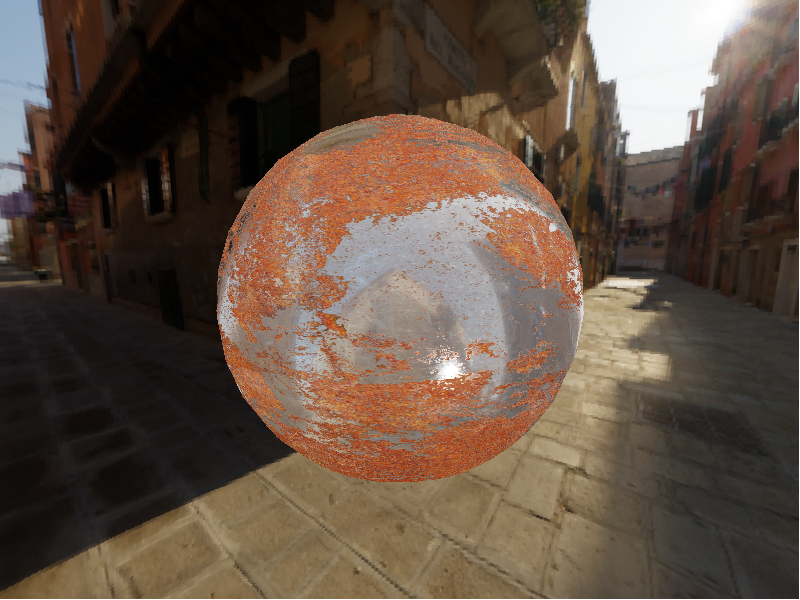
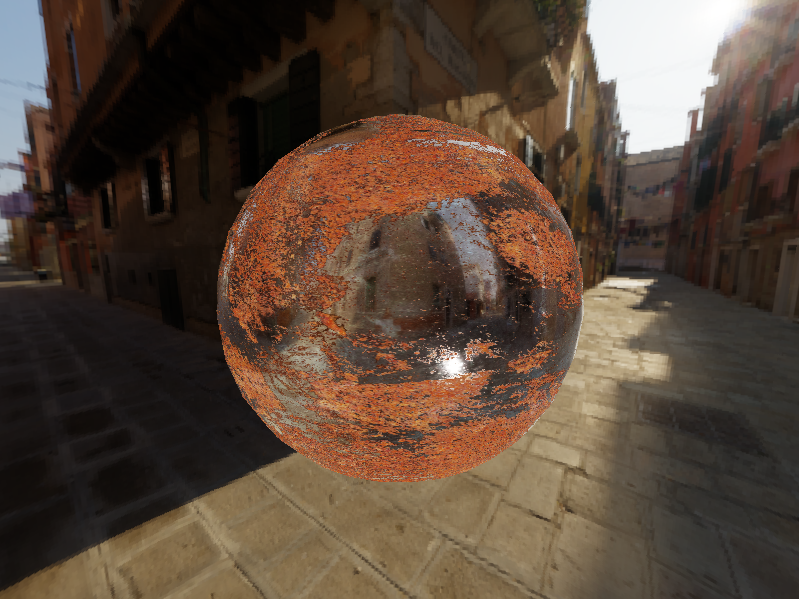
res

Changed region(s): [[0.25, 0.18, 0.75, 0.78], [0.4688, 0.78, 0.5, 0.81]]

diff --git a/main.cpp b/main.cpp
@@ -22,9 +22,9 @@
   \        /
    \      /
     \    /
-	 \  /
-	  \/
-	   p
+     \  /
+      \/
+       p
 */
 struct scan_tri_t
 {
@@ -62,7 +62,7 @@ HDC screenDC;
 
 int width = 0, height = 0;
 float view_angle = 0.0f;
-vector3_t light_angle(cPI, cPI/2.0f, 0);
+vector3_t light_angle(cPI, cPI / 2.0f, 0);
 float eyedist = 1.5f;
 
 struct uniformbuffer_t
@@ -78,8 +78,8 @@ struct uniformbuffer_t
 };
 
 uniformbuffer_t uniformbuffer;
-uint32_t *framebuffer = nullptr;
-float *zbuffer = nullptr;
+uint32_t* framebuffer = nullptr;
+float* zbuffer = nullptr;
 
 texture2d_t albedo_tex;
 texture2d_t metallic_tex;
@@ -195,9 +195,6 @@ void phong_shading(const interp_vertex_t& p, vector4_t& out_color)
 
 }
 
-
-float max_u = -10.0f;
-
 void pbr_shading(const interp_vertex_t& p, vector4_t& out_color)
 {
 	texcoord_t uv = p.uv;
@@ -226,7 +223,6 @@ void pbr_shading(const interp_vertex_t& p, vector4_t& out_color)
 	pbr_param.v.normalize();
 
 	pbr_param.l = -uniformbuffer.light_dir;
-	pbr_param.l.normalize();
 
 	// (v + l) / 2
 	pbr_param.h = pbr_param.v + pbr_param.l;
@@ -258,13 +254,6 @@ void pbr_shading(const interp_vertex_t& p, vector4_t& out_color)
 	float D = D_Trowbridge_Reitz_GGX(a, pbr_param.NoH);
 
 	float V = V_Schlick_GGX(a, pbr_param.NoV, pbr_param.NoL);
-
-
-	float nov = dot(pbr_param.n, pbr_param.v);
-
-	if (nov < 0.5f) {
-		V = FLT_MAX *2;
-	}
 
 	if (!is_valid(V)) {
 		assert(0);
@@ -314,13 +303,13 @@ void pixel_process(int x, int y, const interp_vertex_t& p)
 		pbr_shading(p, color);
 		break;
 	case shading_model_t::eSM_Skybox:
-		{
-			vector3_t n = p.nor / p.pos.w;
-			n.normalize();
-			vector3_t radiance = env_map.sample(n).to_vec3();
-			color = gamma_correction(radiance);
-		}
-		break;
+	{
+		vector3_t n = p.nor / p.pos.w;
+		n.normalize();
+		vector3_t radiance = env_map.sample(n).to_vec3();
+		color = gamma_correction(radiance);
+	}
+	break;
 	default:
 		break;
 	}
@@ -353,31 +342,13 @@ void scan_horizontal(const interp_vertex_t& vl, const interp_vertex_t& vr, int y
 			p.pos.w = 1.0f;
 		}
 
-		{
-			vector3_t n = p.nor / p.pos.w;
-			n.normalize();
-
-			vector3_t wpos = p.wpos / p.pos.w;
-
-			vector3_t v = uniformbuffer.eye - wpos;
-			v.normalize();
-
-			float nov = dot(n, v);
-			if (shading_model == shading_model_t::eSM_PBR) {
-				if (nov < 0)
-				{
-			//		continue;
-				}
-			}
-		}
-
 		if (depth_test(i, y, p.pos.z)) {
 			pixel_process(i, y, p);
 		}
 	}
 }
 
-void scan_triangle(scan_tri_t *sctri)
+void scan_triangle(scan_tri_t* sctri)
 {
 	if (sctri->l.pos.x > sctri->r.pos.x) {
 		std::swap(sctri->l, sctri->r);
@@ -524,7 +495,7 @@ void draw_line(const vector4_t& p0, const vector4_t& p1, uint32_t c)
 	float dy = std::abs(v0.y - v1.y);
 
 	if (dy <= dx)
-	{	
+	{
 		if (v0.x > v1.x) {
 			std::swap(v0, v1);
 		}
@@ -562,7 +533,7 @@ void draw_line(const vector4_t& p0, const vector4_t& p1, uint32_t c)
 		if (ix >= 0 && ix < width) {
 			write_pixel(ix, ymin, c);
 		}
-		
+
 		if (ymax > ymin) {
 			float delta = (v1.x - v0.x) / dy;
 			for (int y = ymin; y < ymax; ++y)
@@ -610,7 +581,7 @@ void draw_cartesian_coordinate(const matrix_t& mvp)
 	draw_line(to, tz, 0xff0000ff);
 }
 
-void render_model(model_t *model)
+void render_model(model_t* model)
 {
 	model_vertex_vec_t& vb = model->m_model_vertex;
 	interp_vertex_vec_t& vb_post = model->m_vertex_post;
@@ -631,13 +602,13 @@ void render_model(model_t *model)
 		vector4_t v01 = vb_post[i1].pos - vb_post[i0].pos;
 		vector4_t v02 = vb_post[i2].pos - vb_post[i0].pos;
 
-		//float det_xy = v01.x * v02.y - v01.y * v02.x;
-		//if (cull_mode == cull_mode_t::eCM_CW && det_xy >= 0.0f) {
-		//	continue; // backface culling
-		//}
-		//else if (cull_mode == cull_mode_t::eCM_CCW && det_xy < 0.0f) {
-		//	continue; // forward face culling
-		//}
+		float det_xy = v01.x * v02.y - v01.y * v02.x;
+		if (cull_mode == cull_mode_t::eCM_CW && det_xy >= 0.0f) {
+			continue; // backface culling
+		}
+		else if (cull_mode == cull_mode_t::eCM_CCW && det_xy < 0.0f) {
+			continue; // forward face culling
+		}
 
 		interp_vertex_t* p0 = &vb_post[i0];
 		interp_vertex_t* p1 = &vb_post[i1];
@@ -662,7 +633,7 @@ void render_model(model_t *model)
 			draw_triangle(*p0, *p1, *p2);
 		}
 	}
-	
+
 }
 
 void render_scene()
@@ -672,12 +643,12 @@ void render_scene()
 		zbuffer[i] = FLT_MAX;
 	}
 
-	view_angle += cPI / 128.0f;
+//	view_angle += cPI / 128.0f;
 
 	matrix_t mrot;
 	mrot.set_rotate(0, 0, 1, view_angle);
 
-	uniformbuffer.eye.set(0.0f, eyedist, 0.5f);
+	uniformbuffer.eye.set(0.2f, eyedist, 0.2f);
 	uniformbuffer.eye = mrot.mul_point(uniformbuffer.eye);
 
 	vector3_t at(0.0f, 0.0f, 0.0f);
@@ -701,7 +672,6 @@ void render_scene()
 	shading_model = old_sm;
 
 	mscale.set_scale(1.6f, 1.6f, 1.6f);
-	mscale.set_scale(1.0f, 1.0f, 1.0f);
 	uniformbuffer.world = mul(mscale, mrot);
 	uniformbuffer.world.set_translate(0, 0, -0.8f);
 	uniformbuffer.mvp = mul(uniformbuffer.world, vp);
@@ -715,7 +685,7 @@ void render_scene()
 
 }
 
-void save_framebuffer(const std::string &fb_texpath)
+void save_framebuffer(const std::string& fb_texpath)
 {
 	unsigned int* data = new unsigned int[width * height];
 	for (int i = 0; i < height; ++i) {
@@ -751,7 +721,7 @@ void main_loop()
 		{
 			int64_t tick_now = 0;
 			::QueryPerformanceCounter((LARGE_INTEGER*)&tick_now);
-			float dt_ms = (tick_now - tick_start)* reci_freq;
+			float dt_ms = (tick_now - tick_start) * reci_freq;
 			if (++frame_count >= 90) // limit to fps 90
 			{
 				if (dt_ms < 1000.0f) {
@@ -914,8 +884,8 @@ int main(void)
 	//return 0;
 
 
-	width = 1024;
-	height = 768;
+	width = 800;
+	height = 600;
 	hwnd = init_window(GetModuleHandle(NULL), _T(""), width, height);
 
 	screenDC = CreateCompatibleDC(GetDC(hwnd));
@@ -941,9 +911,8 @@ int main(void)
 		zbuffer[i] = FLT_MAX;
 	}
 
-	env_map.load_tex("./resource/epicquad/env.png", true);
-
-	ibl.load("./resource/epicquad/");
+	env_map.load_tex("./resource/ibl_textures/env.png", true);
+	ibl.load("./resource/ibl_textures/");
 
 	albedo_tex.load_tex("./resource/rustediron2_basecolor.png", true);
 	metallic_tex.load_tex("./resource/rustediron2_metallic.png", true);
